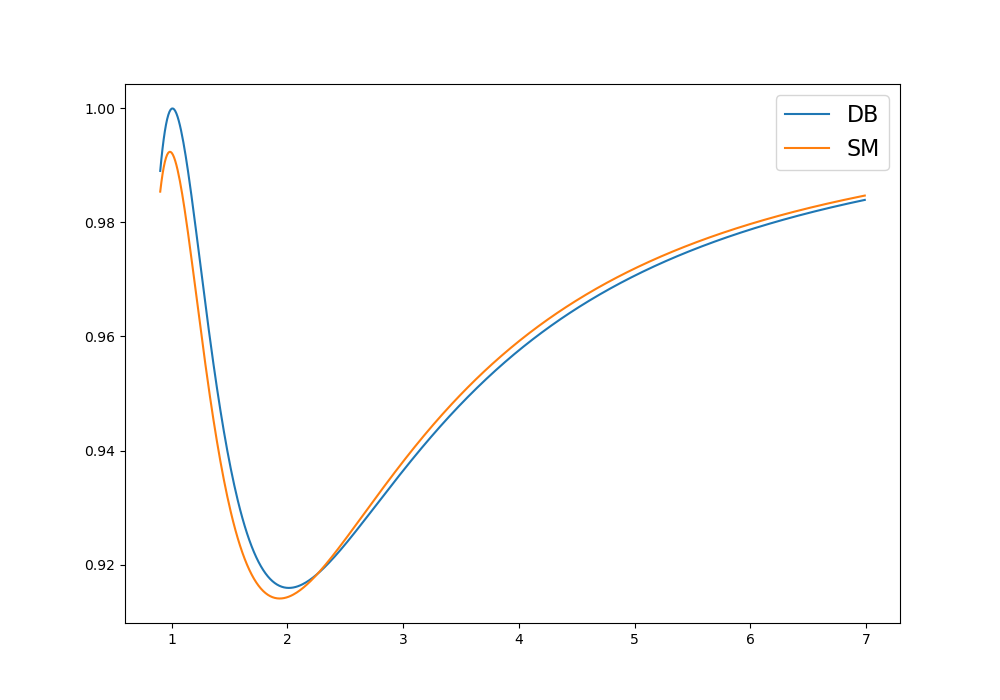
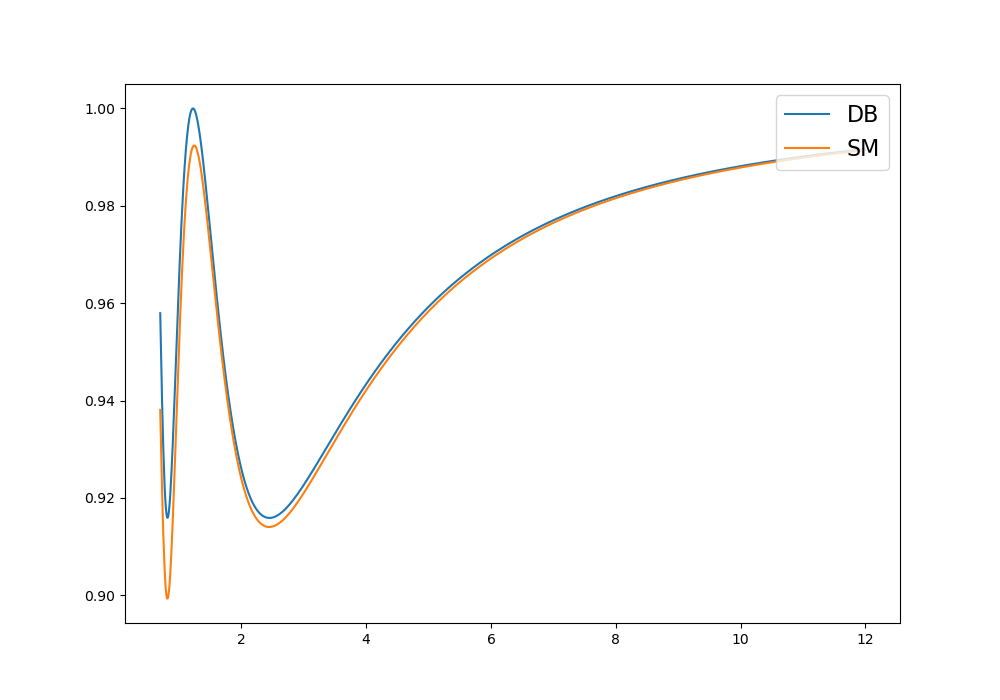
Corrected major error in the calculate_naked_event_expectation.

diff --git a/Python implementation/DayaBay.py b/Python implementation/DayaBay.py
@@ -40,7 +40,7 @@ class DayaBay:
 
         self.mean_fission_fractions = DBP.mean_fis_frac
         self.EfficiencyOfHall = DBP.efficiency
-        self.DistanceFromReactorToHallSquare = DBP.distance
+        self.DistanceFromReactorToHall = DBP.distance
         self.FudgeFactorPerHall = DBP.fudge_factors
 
         self.NeutrinoCovarianceMatrix = DBP.neutrino_covariance_matrix
@@ -119,9 +119,9 @@ class DayaBay:
         reactor (str): name of the reactor.
 
         Output:
-        The squared distance between these EH and reactor.
+        The distance between these EH and reactor (data in meters).
         """
-        return self.DistanceFromReactorToHallSquare[experiment][reactor]
+        return self.DistanceFromReactorToHall[experiment][reactor]
 
     # CALCULATION OF EXPECTED EVENTS
     # ------------------------------
@@ -167,19 +167,17 @@ class DayaBay:
                         flux += (self.mean_fission_fractions[isotope]*
                                  self.get_flux(enu,isotope))
                     expectation += (flux * self.get_cross_section(enu) *
-                                    self.FromEtrueToErec[erf][etf] * oscprob)
+                                    self.FromEtrueToErec[erf][etf] * oscprob)/L**2
                     # isotope loop ends
 
                 # real antineutrino energies loop ends
 
             # reconstructed energies loop ends
-            # the two deltaEfine are to realise a trapezoidal numeric integration
-            expectation *= self.deltaEfine**2
-            expectation *= self.EfficiencyOfHall[set_name]
-            expectation /= L**2
+            #expectation /= L**2 # this is an error, and the root of all evil in the world
 
         # reactor loop ends
-        return expectation #* self.TotalNumberOfProtons
+        # the two deltaEfine are to realise a trapezoidal numeric integration
+        return expectation*self.deltaEfine**2*self.EfficiencyOfHall[set_name] #* self.TotalNumberOfProtons
 
     def integrand(self,enu,L,model,isotope,erf,etf):
         return (self.mean_fission_fractions[isotope]*
@@ -306,6 +304,18 @@ class DayaBay:
             TotalNumberOfBkgPerBin += self.PredictedBackground[set_name]
             TotalNumberOfExpEvents += exp_events[set_name]
         return (TotalNumberOfEventsPerBin-TotalNumberOfBkgPerBin)/(TotalNumberOfExpEvents)
+
+    def get_survival(self,model):
+        Model_noosc = Models.NoOscillations()
+        exp_events_noosc = self.get_expectation_unnorm_nobkg(Model_noosc,do_we_integrate = False)
+        exp_events = self.get_expectation_unnorm_nobkg(model,do_we_integrate = False)
+        ratio = dict([(set_name,np.sum(exp_events[set_name])/np.sum(exp_events_noosc[set_name])) for set_name in self.sets_names])
+        return ratio
+
+    def get_data_survival(self):
+        total_data = dict([(set_name,np.sum(self.ObservedData[set_name])) for set_name in self.sets_names])
+        total_dbkg = dict([(set_name,np.sum(self.AllData[set_name][:,5])) for set_name in self.sets_names])
+        return dict([(set_name, total_data[set_name]/total_dbkg[set_name]) for set_name in self.sets_names])
 
     def get_expectation(self,model):
         """

diff --git a/Python implementation/Plots.py b/Python implementation/Plots.py
@@ -19,15 +19,34 @@ Model_full = Models.PlaneWaveSM_full()
 # Makes plot comparing the survival probability under different models
 # ------------------------------------------------
 
-datx = np.arange(0.9,7,0.01)
-DBosc = [Model_osc.oscProbability(x,1000) for x in datx]
-SMosc = [Model_full.oscProbability(x,1000) for x in datx]
+datx = np.arange(0.7,12,0.01)
+DBosc = [Model_osc.oscProbability(x,1265.61) for x in datx]
+SMosc = [Model_full.oscProbability(x,1265.61) for x in datx]
 
 figprob, axprob = plt.subplots(figsize=(10,7))
 axprob.plot(datx,DBosc,label="DB")
 axprob.plot(datx,SMosc,label="SM")
 axprob.legend(loc="upper right",fontsize=16)
 figprob.savefig("Probabilities.png")
+
+
+# ------------------------------------------------
+# PROBABILITIES
+# Makes plot comparing the survival probability under different models
+# ------------------------------------------------
+
+datx = np.arange(0.7,12,0.01)
+Long = [Model_osc.oscProbability(x,1265.61) for x in datx]
+Short = [Model_osc.oscProbability(x,500.141) for x in datx]
+Mid = [Model_osc.oscProbability(x,1000.141) for x in datx]
+
+figprob, axprob = plt.subplots(figsize=(10,7))
+axprob.plot(datx,Long,label="Long")
+axprob.plot(datx,Short,label="Short")
+axprob.plot(datx,Mid,label="Mid")
+
+axprob.legend(loc="upper right",fontsize=16)
+figprob.savefig("Probabilities_dif_baselines.png")
 
 # ------------------------------------------------
 # FLUXES AND CROSS-SECTIONS

diff --git a/Python implementation/DayaBayParameters.py b/Python implementation/DayaBayParameters.py
@@ -12,6 +12,8 @@ exp_names = ['EH1','EH2','EH3']
 reac_names = ['D1','D2','L1','L2','L3','L4']
 isotopes = ['U235','U238','PU239','PU241']
 
+
+
 # FUDGE FACTORS:
 # These are just some factors Carlos entered in case something didn't work right.
 fudge_factors = {'EH1':1.0,'EH2':1.0,'EH3':1.0}
@@ -46,9 +48,14 @@ efficiency = {'EH1': 0.82*0.97*(1.+1.0013),
 # ------------------------------------
 # Obtained from arXiv:1610.04802  PHYSICAL REVIEW D 95, 072006 (2017)
 # Averaged the distances of the detector in each hall in quadrature (but I don't think so)
+# distance = {'EH1': {'D1': 360.167,'D2': 370.089,'L1': 903.41, 'L2': 817.03, 'L3': 1353.93, 'L4': 1265.61},
+#             'EH2': {'D1': 1334.96,'D2': 1360.52,'L1': 470.278,'L2': 492.473,'L3': 558.145, 'L4': 500.141},
+#             'EH3': {'D1': 1921.39,'D2': 1895.92,'L1': 1536.93,'L2': 1537.25,'L3': 1555.56, 'L4': 1529.06}}
+
 distance = {'EH1': {'D1': 360.167,'D2': 370.089,'L1': 903.41, 'L2': 817.03, 'L3': 1353.93, 'L4': 1265.61},
             'EH2': {'D1': 1334.96,'D2': 1360.52,'L1': 470.278,'L2': 492.473,'L3': 558.145, 'L4': 500.141},
             'EH3': {'D1': 1921.39,'D2': 1895.92,'L1': 1536.93,'L2': 1537.25,'L3': 1555.56, 'L4': 1529.06}}
+
 
 # Here we define a function to easily access the square of this distance.
 def get_distance2(experiment,reactor):

diff --git a/Python implementation/prova.py b/Python implementation/prova.py
@@ -37,8 +37,10 @@ DB_test = DB.DayaBay()
 def get_osc(model):
     return model.oscProbability(10,10)
 
-Model_osc = Models.PlaneWaveSM()
+DB_test = DB.DayaBay()
 Model_noosc = Models.NoOscillations()
+Model_osc = Models.PlaneWaveSM()
+Model_full = Models.PlaneWaveSM_full()
 #Model_test = Models.WavePacketSterile_full()
 #print(get_osc(Model_test))
 
@@ -49,10 +51,9 @@ Model_noosc = Models.NoOscillations()
 # exp_events_noosc = dict([(set_name, exp_events_noosc[set_name]*norm_factor[set_name]+DB_test.PredictedBackground[set_name]) for set_name in DB_test.sets_names])
 # print(exp_events_noosc)
 
-list = DB_test.sets_names.copy()
-print(list)
-print(list + ['EH3'])
 begin_time = time.time()
+print(DB_test.get_survival(Model_osc))
+print(DB_test.get_data_survival())
 #data = DB_test.get_expectation(Model_osc)
 end_time = time.time()
 print(begin_time-end_time)

diff --git a/Python implementation/Models.py b/Python implementation/Models.py
@@ -212,7 +212,7 @@ class PlaneWaveSterile_full:
         self.delta34 = 0.
          #DB best fit
         self.theta12 = np.arcsin(np.sqrt(0.304))
-        self.theta13 = np.arcsin(np.sqrt(0.0841))/2. #nu-fit is sin^2theta = 0.02221
+        self.theta13 = np.arcsin(np.sqrt(0.0841))/2.  # nu-fit is sin^2theta = 0.02221
         self.theta23 = np.arcsin(np.sqrt(0.570))
         self.theta14 = np.arcsin(np.sqrt(r14))/2.
         self.theta24 = np.arcsin(np.sqrt(r24))/2.
